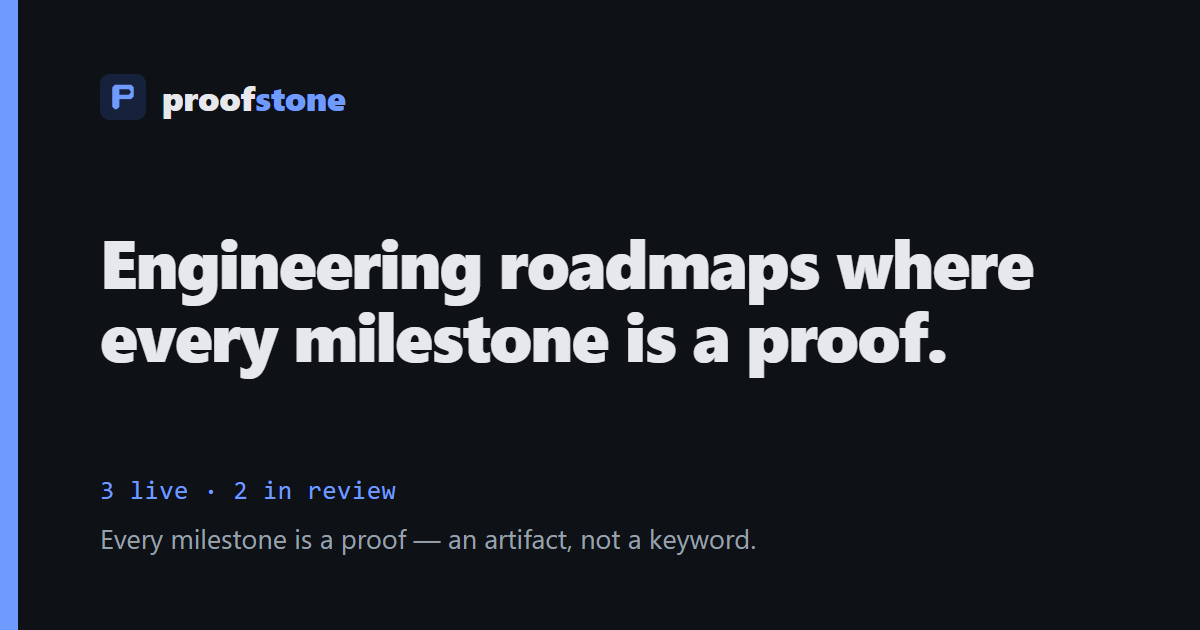
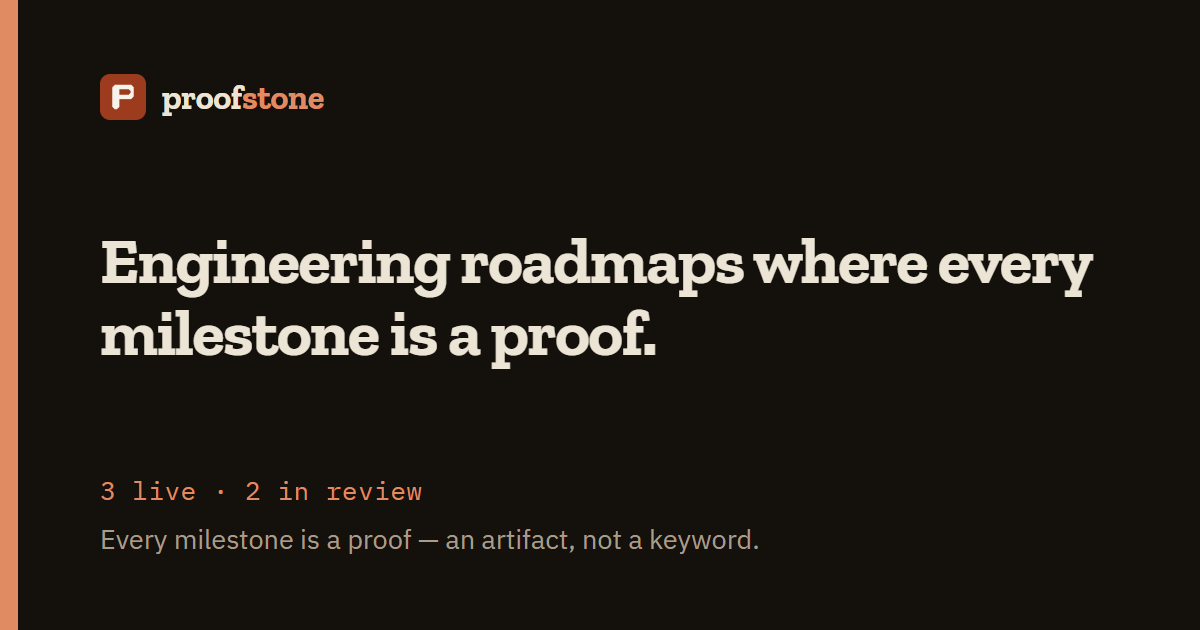
One accent everywhere: drop the five per-direction hues, recolour the mark
The five equal card accents were half of what made the palette read as
generated: a docs blue for the chrome plus a rainbow of tailwind hues for the
cards, none of them related to each other or to the maps. Directions are told
apart by their number and their status stamp now, not by hue.

Removing the registry field alone would have been a silent regression. The
`accent` key was read in four places — index.njk and roadmap.njk as
data-accent, and scripts/make-og.mjs, where `ACCENT[r.accent] || ACCENT.blue`
would have quietly fallen back to the old blue and repainted every social card
in the palette this commit exists to remove. Registry, both templates, the
stylesheet and the generator move together, and the cards are regenerated in
the same commit.

The mark becomes what the site is named after: a sealing-wax badge with a
paper-coloured P, replacing the navy-and-blue pair. Fixed literals rather than
tokens, because a logo that repaints with the theme is not a logo — 6.16:1
between glyph and badge, and the badge reads on both papers. Applied to
favicon.svg, the inlined header lockup, the OG template and the regenerated
PNG icons, so the identity stays one object across every surface.

The OG cards also stop being rendered in a system font: the three faces are
inlined as base64 data URIs. A file:// or http reference would leave the
render dependent on load timing and could produce a card in the wrong
typeface with a green run.
[…]

diff --git a/src/assets/styles.css b/src/assets/styles.css
@@ -263,36 +263,16 @@ main:focus { outline: none; }
   border: 1px dashed var(--border); border-radius: 999px; padding: .35rem .85rem;
 }
 
-/* Per-direction identity. One restrained accent each — enough to tell the
-   directions apart at a glance without turning the page into a landing page. */
-[data-accent="blue"]   { --card-accent: #2457d6; }
-[data-accent="teal"]   { --card-accent: #0f766e; }
-[data-accent="violet"] { --card-accent: #6d28d9; }
-[data-accent="amber"]  { --card-accent: #a16207; }
-[data-accent="green"]  { --card-accent: #15803d; }
-[data-theme="dark"] [data-accent="blue"]   { --card-accent: #6f9bff; }
-[data-theme="dark"] [data-accent="teal"]   { --card-accent: #2dd4bf; }
-[data-theme="dark"] [data-accent="violet"] { --card-accent: #a78bfa; }
-[data-theme="dark"] [data-accent="amber"]  { --card-accent: #e0b64d; }
-[data-theme="dark"] [data-accent="green"]  { --card-accent: #4ade80; }
-@media (prefers-color-scheme: dark) {
-  :root:not([data-theme="light"]) [data-accent="blue"]   { --card-accent: #6f9bff; }
-  :root:not([data-theme="light"]) [data-accent="teal"]   { --card-accent: #2dd4bf; }
-  :root:not([data-theme="light"]) [data-accent="violet"] { --card-accent: #a78bfa; }
-  :root:not([data-theme="light"]) [data-accent="amber"]  { --card-accent: #e0b64d; }
-  :root:not([data-theme="light"]) [data-accent="green"]  { --card-accent: #4ade80; }
-}
-
 .roadmaps { max-width: var(--page); margin: 0 auto; display: grid; gap: 1rem; }
 .card {
   position: relative; overflow: hidden;
   background: var(--surface); border: 1px solid var(--border);
-  border-left: 4px solid var(--card-accent, var(--accent));
+  border-left: 4px solid var(--accent);
   border-radius: var(--r-md); box-shadow: var(--shadow);
   transition: transform .12s ease, border-color .12s ease;
 }
 .card:hover { transform: translateY(-2px); }
-.card:hover { border-color: var(--card-accent, var(--accent)); }
+.card:hover { border-color: var(--accent); }
 .card__main { display: block; padding: 1.4rem 1.5rem; color: inherit; }
 .card__main:hover { text-decoration: none; }
 .card--review { padding: 1.4rem 1.5rem; background: transparent; border-style: dashed; }
@@ -300,7 +280,7 @@ main:focus { outline: none; }
 .card__title { margin: 0 0 .35rem; font-size: 1.4rem; letter-spacing: -.01em; color: var(--text); }
 .card__tagline { margin: 0 0 1rem; color: var(--muted); }
 .card__meta { display: flex; align-items: center; gap: .5rem; flex-wrap: wrap; margin: 0; }
-.card__go { margin-left: auto; color: var(--card-accent, var(--accent)); font-size: 1.3rem; }
+.card__go { margin-left: auto; color: var(--accent); font-size: 1.3rem; }
 .badge--review {
   color: var(--muted); background: transparent; border-style: dashed; white-space: normal;
 }
@@ -311,7 +291,7 @@ main:focus { outline: none; }
 .card--review .card__lab { padding: .75rem 0 0; }
 .card__lab-tag {
   font-family: var(--mono); font-size: .62rem; text-transform: uppercase; letter-spacing: .08em;
-  color: var(--card-accent, var(--accent)); border: 1px solid color-mix(in srgb, var(--card-accent, var(--accent)) 40%, var(--border));
+  color: var(--accent); border: 1px solid color-mix(in srgb, var(--accent) 40%, var(--border));
   border-radius: var(--r-sm); padding: .1rem .35rem; margin-right: .45rem;
 }
 .card__lab code { background: var(--code-bg); padding: .08em .35em; border-radius: var(--r-sm); font-size: .95em; }
@@ -385,8 +365,8 @@ main:focus { outline: none; }
 .badge--count { color: var(--muted); }
 /* Falls back to the site accent; on a direction card it inherits that card's accent. */
 .badge--star {
-  color: var(--card-accent, var(--accent));
-  border-color: color-mix(in srgb, var(--card-accent, var(--accent)) 40%, var(--border));
+  color: var(--accent);
+  border-color: color-mix(in srgb, var(--accent) 40%, var(--border));
   background: transparent;
 }
 .badge--flag { color: var(--gold); border-color: color-mix(in srgb, var(--gold) 45%, var(--border)); background: var(--gold-weak); }
@@ -423,7 +403,7 @@ main:focus { outline: none; }
 .series__item {
   display: flex; align-items: baseline; gap: .6rem; flex-wrap: wrap;
   padding: .6rem .8rem; border: 1px solid var(--border);
-  border-left: 3px solid var(--card-accent, var(--accent));
+  border-left: 3px solid var(--accent);
   border-radius: var(--r-md); background: var(--surface);
 }
 .series__item--review { background: transparent; border-style: dashed; }
